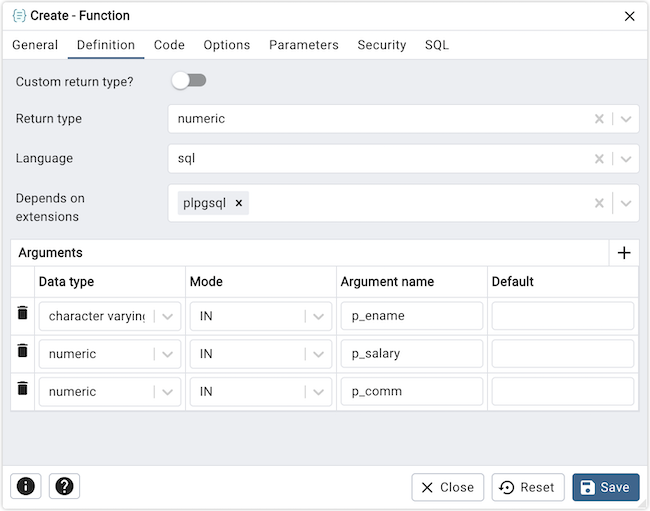
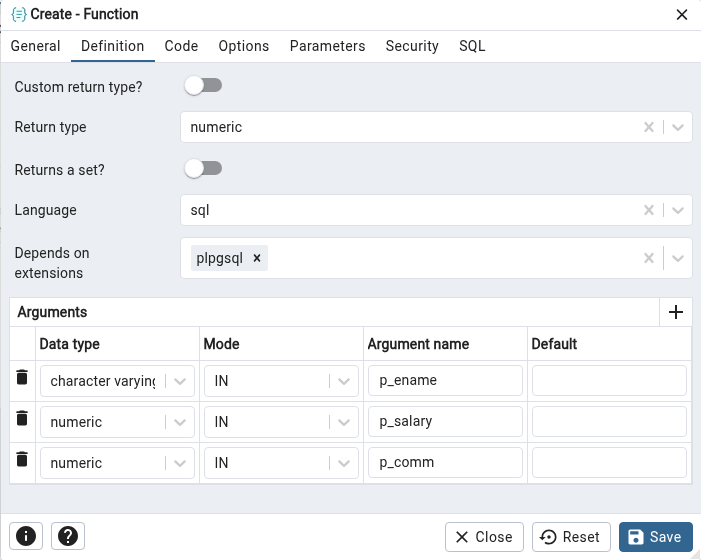
Move the 'Returns a set?' option to the Definition tab in the Function dialog. #9264 (#10565)
Also update the documentation and screenshots to match.

diff --git a/web/pgadmin/browser/server_groups/servers/databases/schemas/functions/static/js/function.ui.js b/web/pgadmin/browser/server_groups/servers/databases/schemas/functions/static/js/function.ui.js
@@ -266,6 +266,10 @@ export default class FunctionSchema extends BaseUISchema {
       type: 'text', group: gettext('Definition'),
       mode: ['properties', 'edit'], readonly: obj.isReadonly, visible: obj.isVisible,
     },{
+      id: 'proretset', label: gettext('Returns a set?'), type: 'switch',
+      disabled: ()=>{return !obj.isNew();}, group: gettext('Definition'),
+      visible: obj.isVisible, readonly: obj.isReadonly,
+    },{
       id: 'lanname', label: gettext('Language'), cell: 'string', noEmpty: true,
       options: this.fieldOptions.getLanguage, type: 'select', group: gettext('Definition'),
       disabled: function() {
@@ -332,10 +336,6 @@ export default class FunctionSchema extends BaseUISchema {
         {'label': 'IMMUTABLE', 'value': 'i'},
       ], disabled: (this.type !== 'procedure') ? obj.inCatalog() : obj.isLessThan95ORNonSPL,
       controlProps: {allowClear: false},
-    },{
-      id: 'proretset', label: gettext('Returns a set?'), type: 'switch',
-      disabled: ()=>{return !obj.isNew();}, group: gettext('Options'),
-      visible: obj.isVisible, readonly: obj.isReadonly,
     },{
       id: 'proisstrict', label: gettext('Strict?'), type: 'switch',
       group: gettext('Options'),

diff --git a/docs/en_US/function_dialog.rst b/docs/en_US/function_dialog.rst
@@ -39,6 +39,8 @@ Use the fields in the *Definition* tab to define the function:
 * Use the drop-down listbox next to *Return type* to select the data type
   returned by the function, if any. If *Custom return type?* is enabled this field
   will change to an input text field.
+* Move the *Returns a set?* switch to indicate if the function returns a set
+  that includes multiple rows. The default is *No*.
 * Use the drop-down listbox next to *Language* to select the implementation
   language. The default is *sql*.
 * Use the drop-down listbox next to *Depends on extensions* to select the extension that this function
@@ -88,8 +90,6 @@ function:
     * *IMMUTABLE* indicates that the function cannot modify the database and
       always returns the same result when given the same argument values.
 
-* Move the *Returns a Set?* switch to indicate if the function returns a set
-  that includes multiple rows. The default is *No*.
 * Move the *Strict?* switch to indicate if the function always returns NULL
   whenever any of its arguments are NULL. If *Yes*, the function is not executed
   when there are NULL arguments; instead a NULL result is assumed
